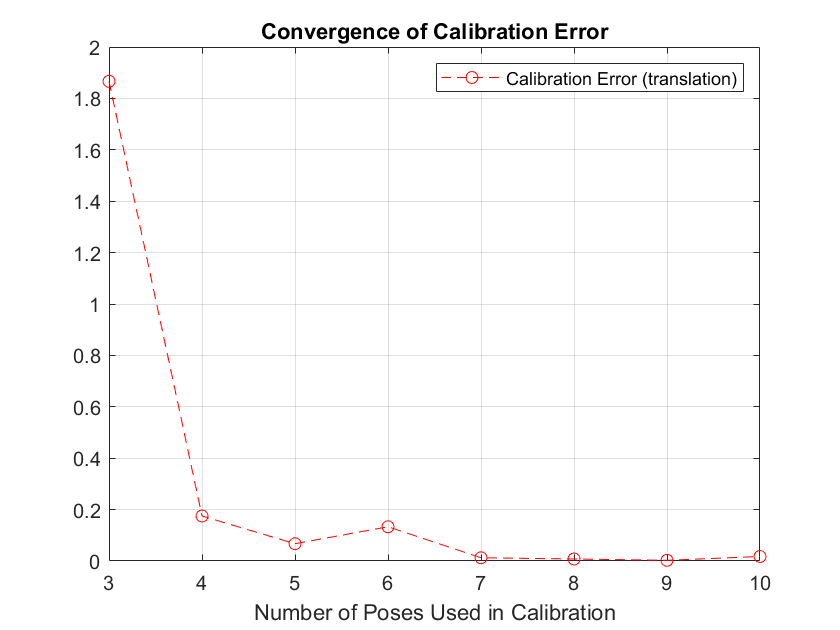
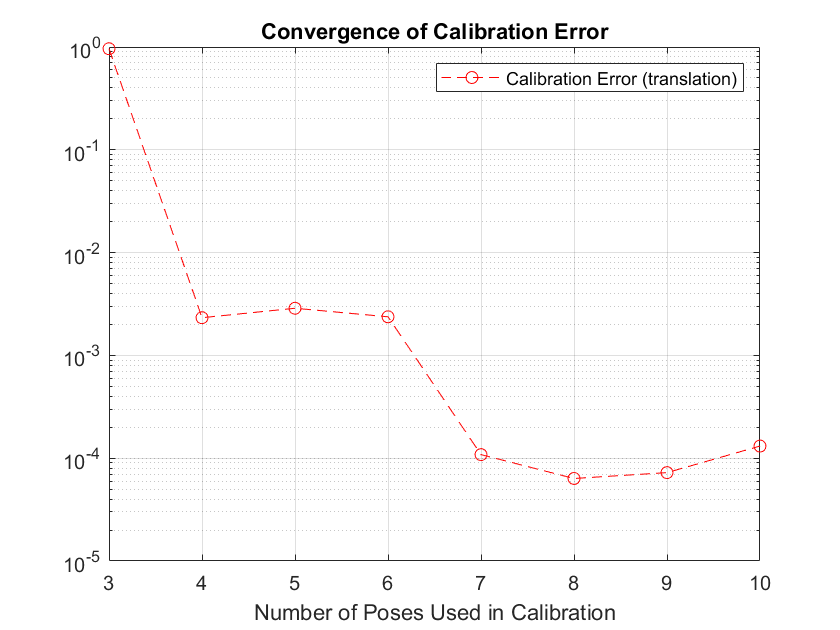
Fixed an issue of the quaternion values being in the wrong order. noisy_calib_comparison.m now corrects that issue.

diff --git a/eyeInHandCalibTest.m b/eyeInHandCalibTest.m
@@ -13,9 +13,9 @@
 % X_gt = Arbitrary transformation matrix describing a hypothetical
 % configuration of a sensor with respect to the end-effector of a robot.
 % q_robot = Orientation of robot end_effector with respect to the base
-% frame, in quaternion form
+% frame, in quaternion form [q0, q_vec] (scalar value first!)
 % q_sensor = Orientation of calibration object with respect to the sensor
-% frame, in quaternion form
+% frame, in quaternion form [q0, q_vec] (scalar value first!)
 % t_robot = Position of robot end-effector with respect to the base frame
 % t_robot = Position of calibration object with respect to the sensor frame
 % 
@@ -42,7 +42,7 @@ function [test] = eyeInHandCalibTest(X_gt,q_robot,q_sensor,t_robot,t_sensor)
 
     x = 3:10; % x-axis is number of poses used to compute X
 
-    plot(x,error_norm,'--ro')
+    semilogy(x,error_norm,'--ro')
     legend('Calibration Error (translation)')
     title('Convergence of Calibration Error')
     xlabel('Number of Poses Used in Calibration') %
@@ -150,7 +150,7 @@ function [test] = eyeInHandCalibTest(X_gt,q_robot,q_sensor,t_robot,t_sensor)
 
 
     % Compare X_test with X_gt
-    tol = 1e-2; % Arbitrary tolerance
+    tol = 1e-4; % Arbitrary tolerance
     assert(all(abs(X_gt - X_test) < tol, 'all'), "ERROR: Calculated calibration matrix does not match the ground truth.");
 
     if all(abs(X_gt - X_test) < tol)

diff --git a/eyeInHandCalib.m b/eyeInHandCalib.m
@@ -9,9 +9,9 @@
 %
 % Inputs:
 % q_robot = Orientation of robot end_effector with respect to the base
-% frame, in quaternion form
+% frame, in quaternion form [q0, q_vec] (scalar value first!)
 % q_sensor = Orientation of calibration object with respect to the sensor
-% frame, in quaternion form
+% frame, in quaternion form [q0, q_vec] (scalar value first!)
 % t_robot = Position of robot end-effector with respect to the base frame
 % t_robot = Position of calibration object with respect to the sensor frame 
 %
@@ -28,6 +28,8 @@ function X = eyeInHandCalib(q_robot,q_sensor,t_robot,t_sensor)
 
     %%% Calculate Rotation Matrix of X, R_X
     for i = 2:(size(q_robot,1))
+        
+
         % Convert quaternions to rotation matrices
         R1_robot = quatToRot(q_robot(i-1,:)); % Previous robot orientation
         R1_sensor = quatToRot(q_sensor(i-1,:)); % Previous sensor orientation
